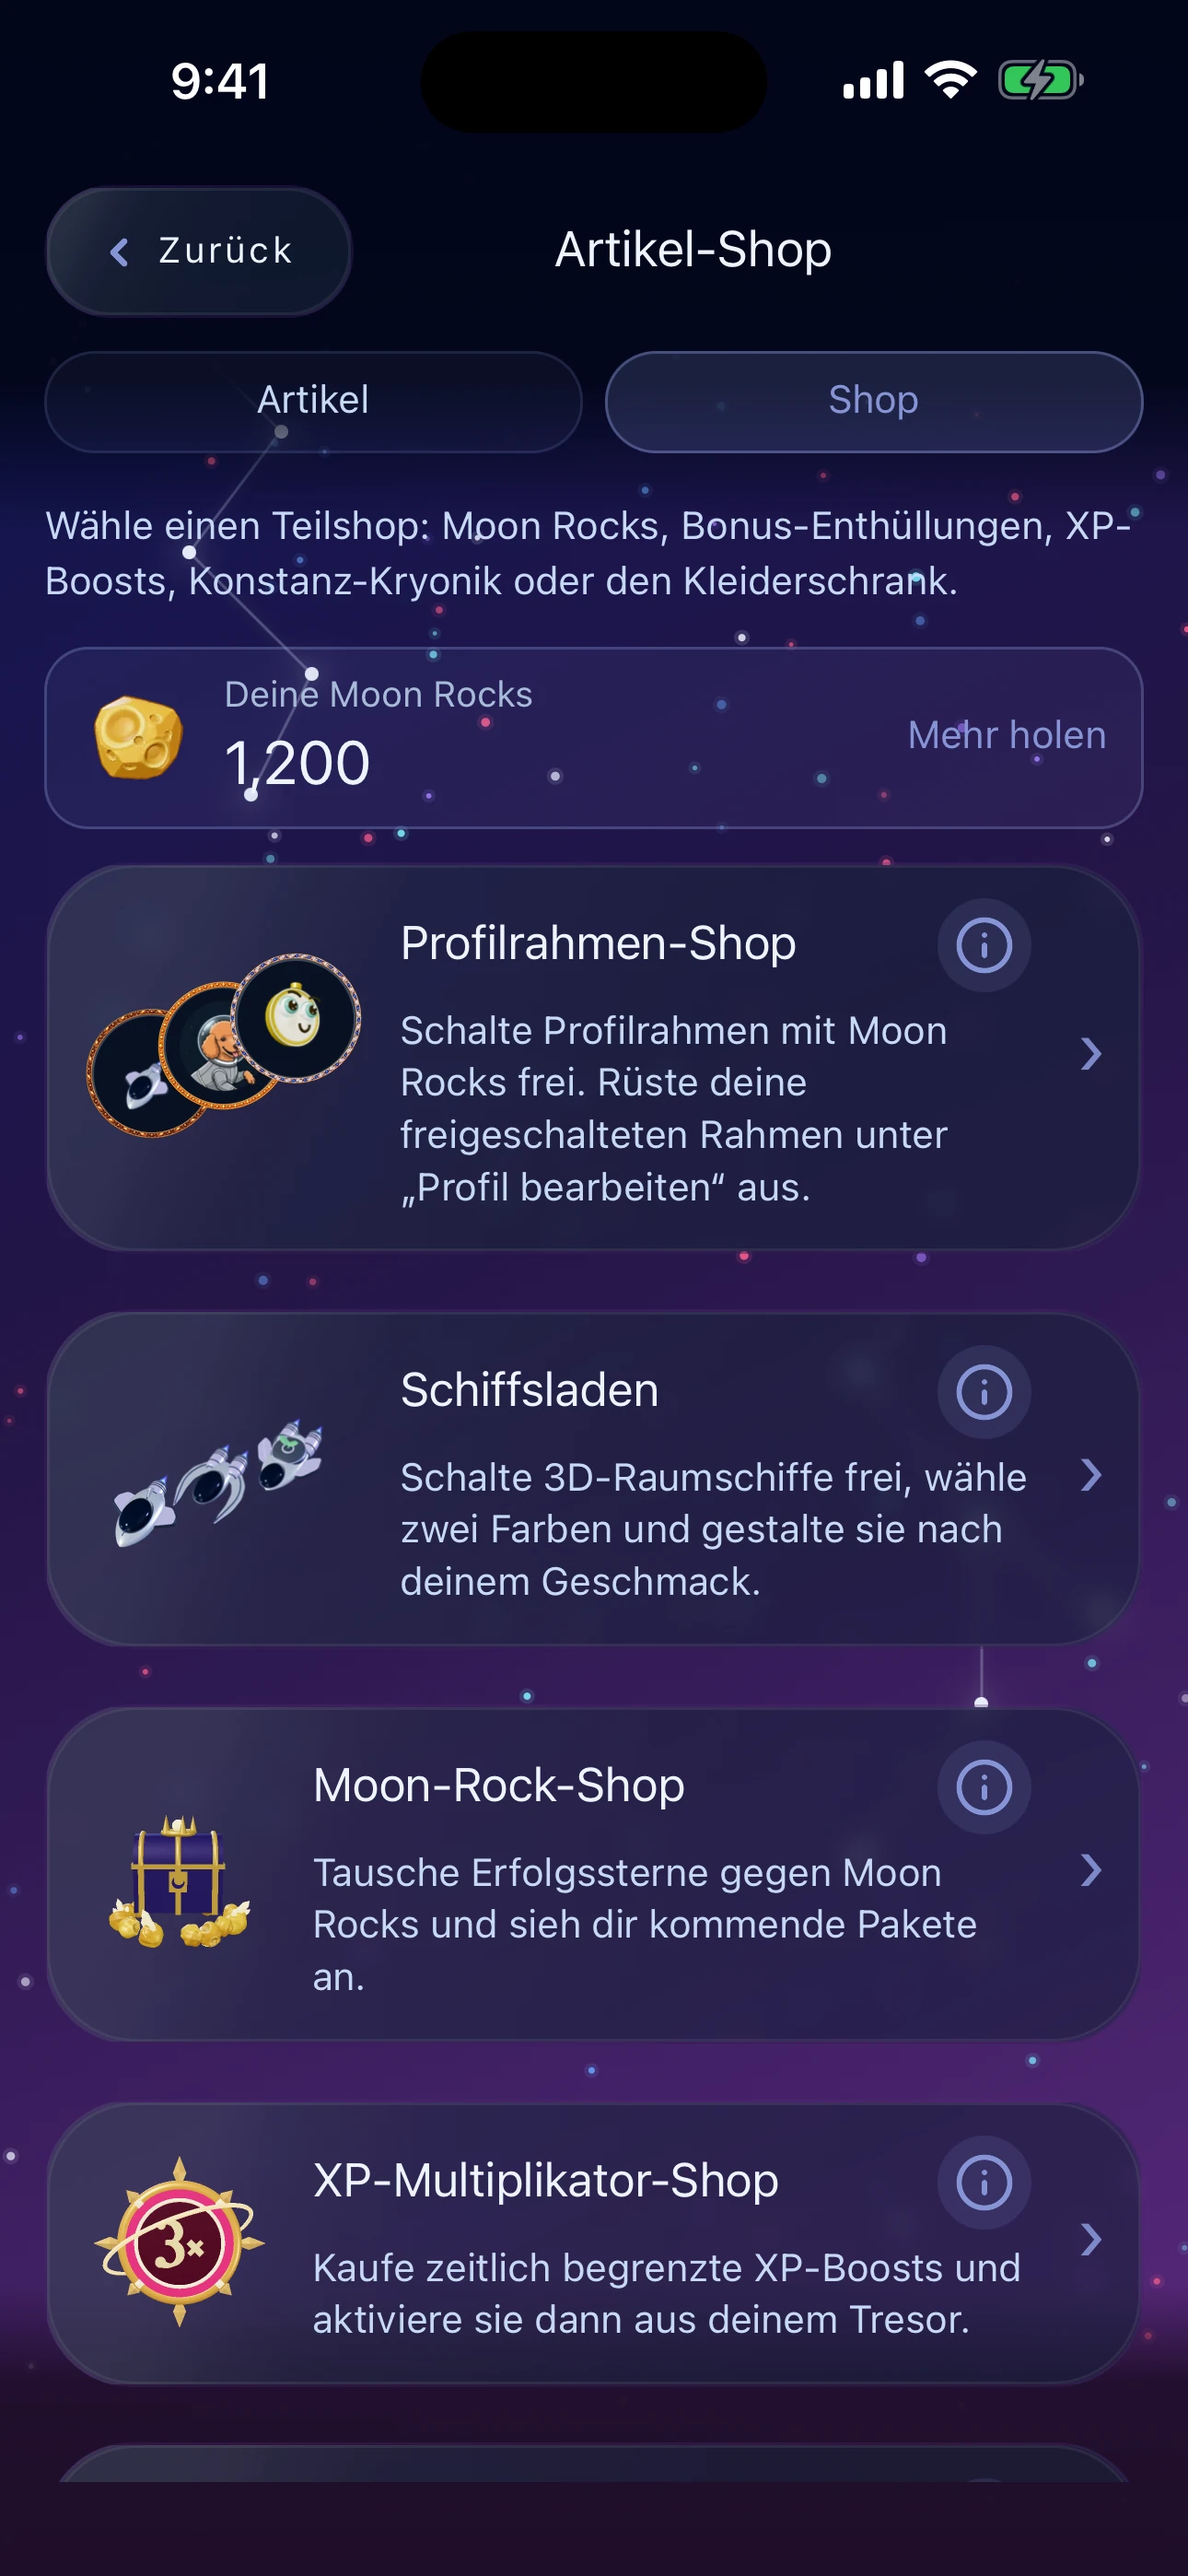
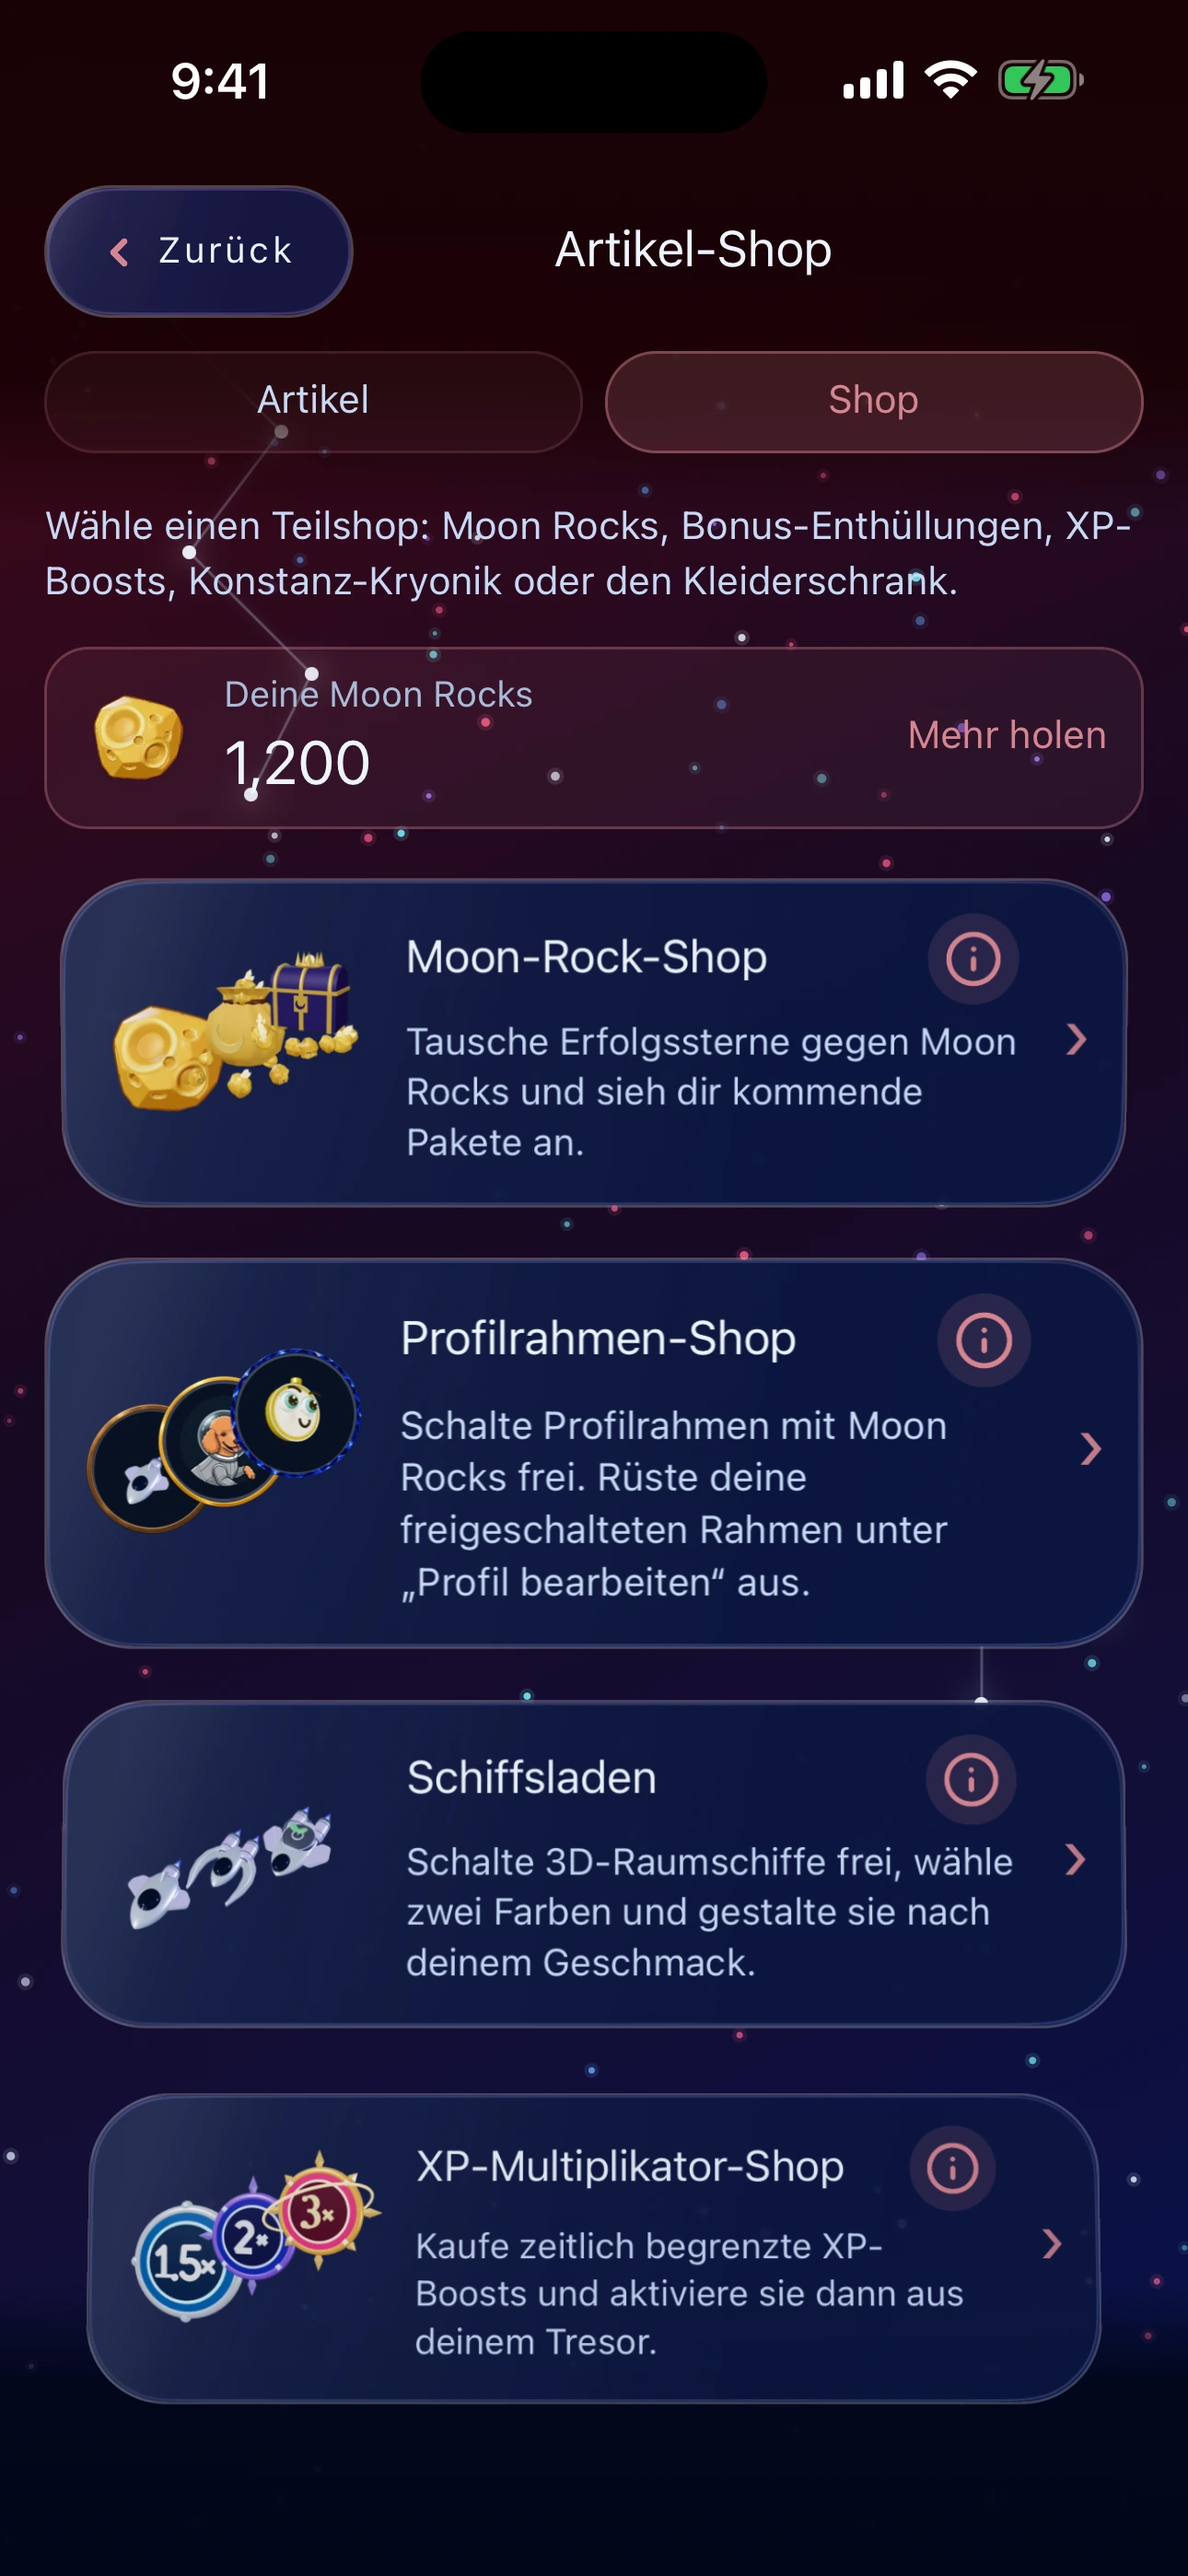
fix(site): refresh all nine translated Shop previews

diff --git a/lune-synth/index.html b/lune-synth/index.html
@@ -10925,7 +10925,7 @@
   <link rel="stylesheet" href="/campaign/typography.css?v=1" />
   <link rel="stylesheet" href="/campaign/phone-chassis.css?v=1" />
   <link rel="stylesheet" href="/campaign/phone-mock-fluid.css?v=1" />
-  <script src="/campaign/lang-shots.js?v=3" defer></script>
+  <script src="/campaign/lang-shots.js?v=4" defer></script>
   <script src="/campaign/lang-background.js?v=2" defer></script>
   <link rel="stylesheet" href="/campaign/tock-section.css?v=12" />
   <script src="/campaign/tock-secret.core.js?v=4" defer></script>
@@ -13161,7 +13161,7 @@
                     <img
                       class="lang-shot__image lang-shot__image--a is-active"
                       data-lang-shot-layer="a"
-                      src="screenshots/applied/lang/home-en.webp?v=3"
+                      src="screenshots/applied/lang/home-en.webp?v=4"
                       width="1290"
                       height="2796"
                       loading="lazy"

diff --git a/lune-synth/campaign/lang-shots.js b/lune-synth/campaign/lang-shots.js
@@ -35,7 +35,7 @@
   });
 
   function imageSrc(screen, locale) {
-    return "screenshots/applied/lang/" + screen + "-" + locale + ".webp?v=3";
+    return "screenshots/applied/lang/" + screen + "-" + locale + ".webp?v=4";
   }
 
   function altFor(screen, locale) {

diff --git a/README.md b/README.md
@@ -10,6 +10,8 @@ The site presents Coherascent as a dual-pillar organization:
 
 ## Update Log
 
+- 2026-10-28: Re-captured all nine translated Shop previews from the current native layout, with Moon Rock Shop first and overlapping examples for frames, ships, XP boosts and Cryonics. Individually reviewed all nine full-frame WebPs, refreshed their exact-byte provenance and rotated the gallery cache version.
+
 - 2026-10-28: Re-captured English, Spanish, French and Hindi Home language previews with readable native notebook labels and loaded clock, bulb and ship artwork. Versioned the gallery and initial image for returning visitors, standardized frame dimensions, and extended exact-byte review coverage to English Home. Remaining Home locales and the Shop refresh follow as reviewed batches.
 
 - 2026-10-27: Gave all four Tock carousel phones distinct 3D entrance angles and delayed each hidden phone’s one-shot entrance until it becomes visible. Reused the existing chassis transition and Tock visibility observer; resting layout, manual rotation, screenshots and mobile/reduced-motion fallbacks are preserved. Browser QA confirmed four actual entrance transitions and both fallbacks; 28 focused tests and the 165-page screenshot guard passed. Full website tests remain 81/86, reproducing the same five offer/retired-Pro failures on clean baseline `f4c782aa`; no assertions were changed. Exact results are in `docs/qa/2026-10-27-tock-entrances/`.
